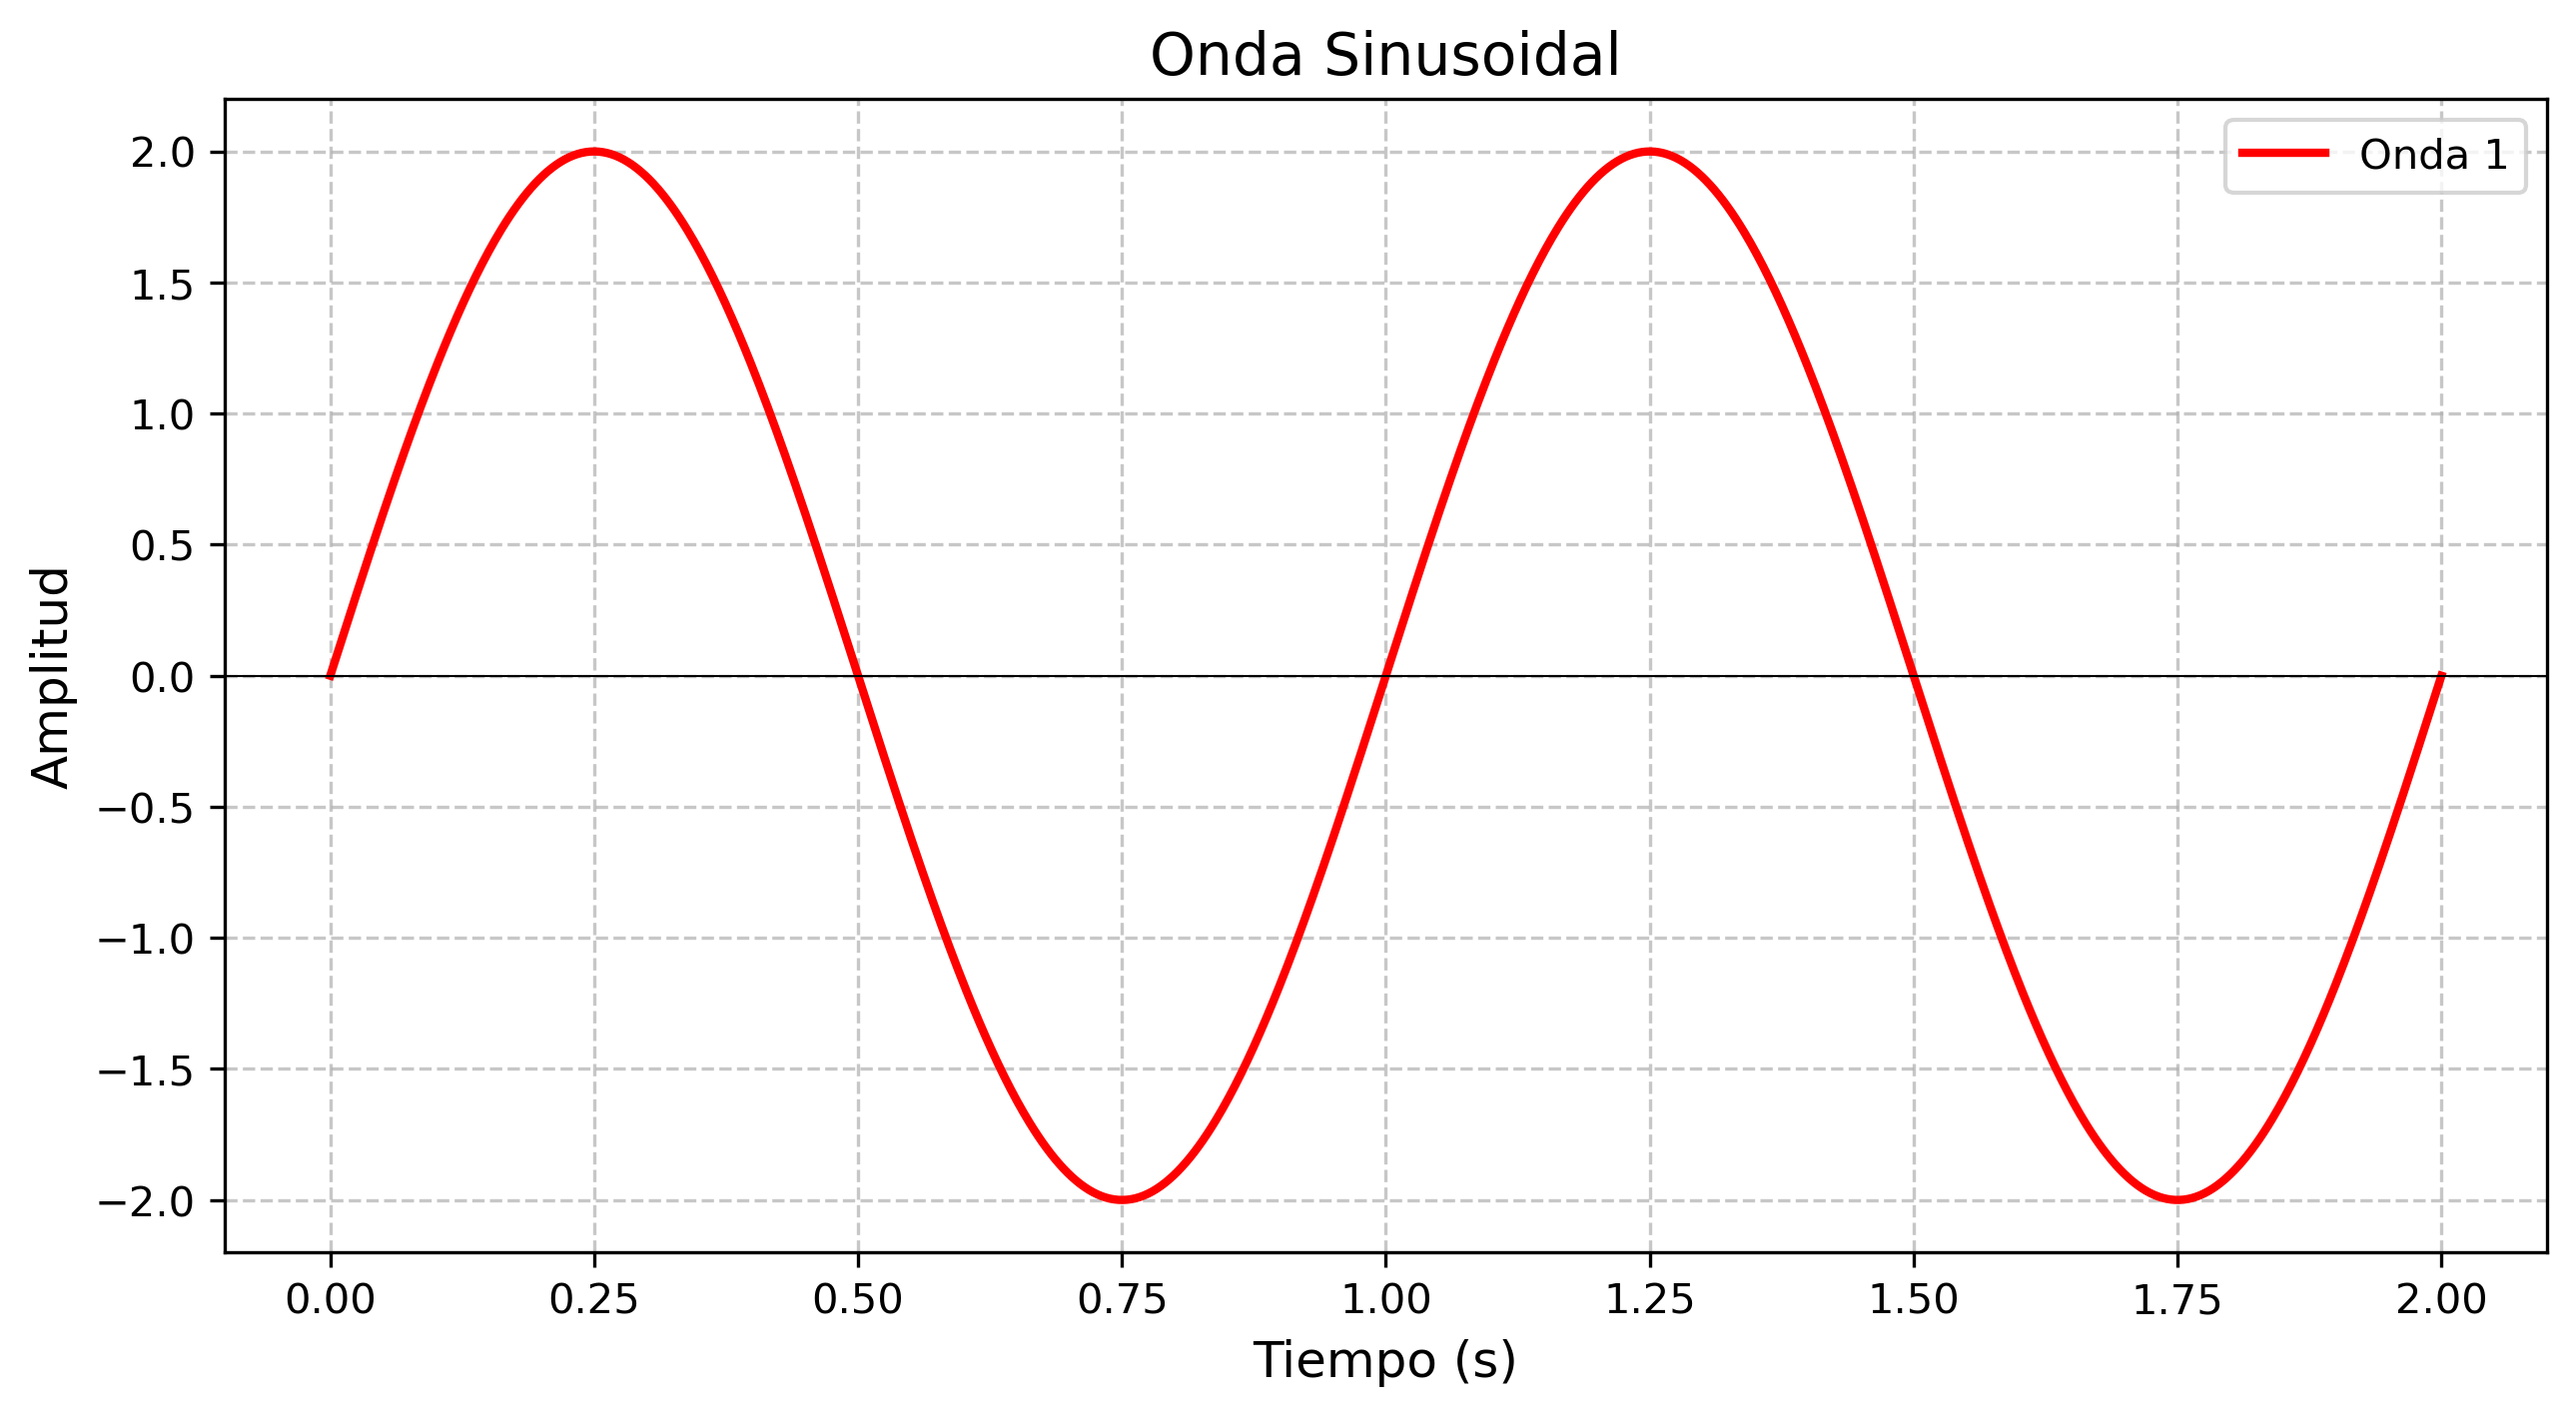
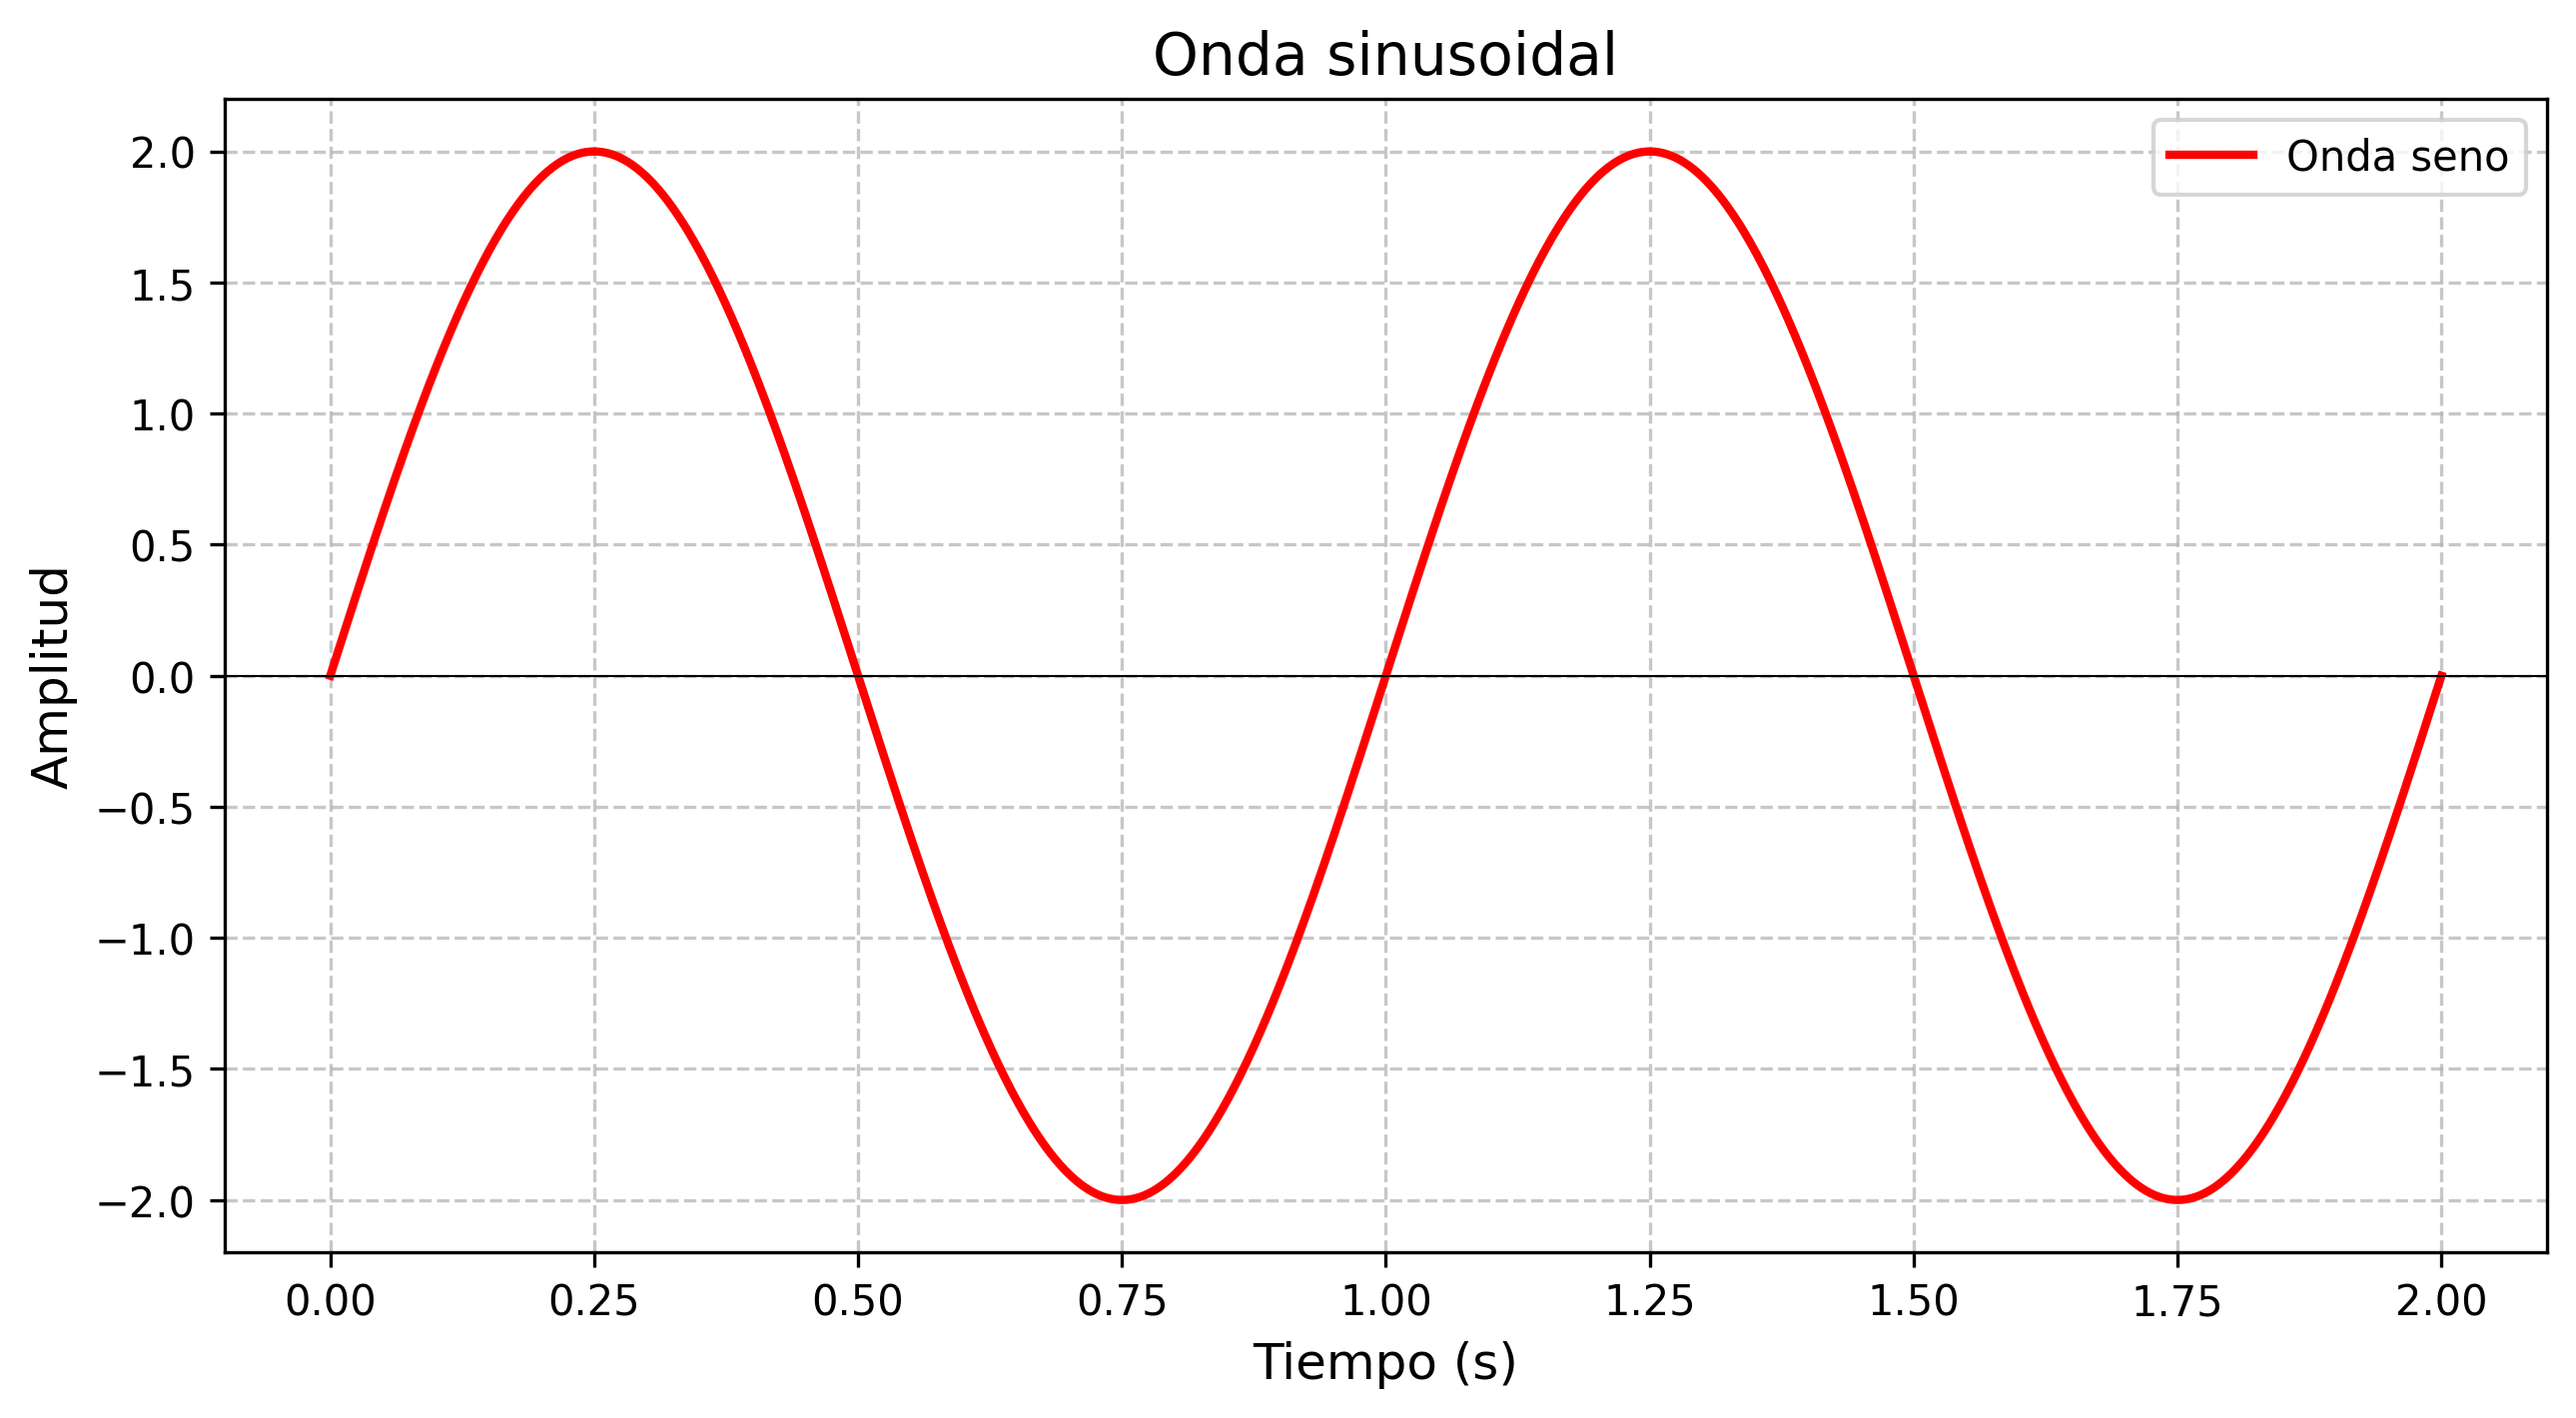
Erratas

Changed region(s): [[0.0931, 0.8378, 0.9926, 0.8999], [0.8375, 0.0621, 0.9926, 0.1551], [0.4343, 0.031, 0.6514, 0.0621]]

diff --git a/programas/GeneradorOndas.py b/programas/GeneradorOndas.py
@@ -12,13 +12,18 @@ class GeneradorOndas(object):
         self.x_maximo=x_maximo
         self.tiempo=np.linspace(x_minimo, x_maximo, num_muestras) 
         self.series=[]
-        self.titulo=[]
+        self.titulos=[]
         self.colores=["red", "green", "blue", "black", "cyan", "magenta"]
     
     def anadir_serie(self, amplitud, frecuencia, titulo):
         onda = amplitud * np.sin(2 * np.pi * frecuencia * self.tiempo)
         self.series.append(onda)
-        self.titulo.append(titulo)
+        self.titulos.append(titulo)
+
+    def anadir_serie_coseno(self, amplitud, frecuencia, titulo):
+        onda = amplitud * np.cos(2 * np.pi * frecuencia * self.tiempo)
+        self.series.append(onda)
+        self.titulos.append(titulo)
     
     def anadir_serie_np(self, np, titulo):
         self.series.append(np)
@@ -27,13 +32,13 @@ class GeneradorOndas(object):
     def guardar_grafico(self, nombre_archivo):
         # Configuración de la figura
         fig = plt.figure(figsize=(10, 5))
-        plt.title("Onda Sinusoidal", fontsize=14)
+        plt.title(self.titulo, fontsize=14)
         plt.xlabel("Tiempo (s)", fontsize=12)
         plt.ylabel("Amplitud", fontsize=12)
         plt.grid(True, linestyle='--', alpha=0.7)
 
        
-        for (serie, titulo, color) in zip(self.series, self.titulo, self.colores):
+        for (serie, titulo, color) in zip(self.series, self.titulos, self.colores):
             # Dibujar la onda
             plt.plot(self.tiempo, serie, color, linewidth=2, label=titulo)
         

diff --git a/programas/02-seno-y-coseno.py b/programas/02-seno-y-coseno.py
@@ -4,8 +4,9 @@ import numpy as np
 import matplotlib.pyplot as plt
 from GeneradorOndas import GeneradorOndas
 
-NOMBRE_ARCHIVO="02-sinusoidal.png"
+NOMBRE_ARCHIVO="02-seno-y-coseno.png"
 if __name__=="__main__":
-    g=GeneradorOndas("Onda sinusoidal", "Tiempo (s)", "Amplitud", 1000, 0,2)
+    g=GeneradorOndas("Comparativa de ondas", "Tiempo (s)", "Amplitud", 1000, 0,2)
     g.anadir_serie(2, 1, "Onda seno")
+    g.anadir_serie_coseno(2, 1, "Onda coseno")
     g.guardar_grafico(NOMBRE_ARCHIVO)

diff --git a/programas/02-cosinusoidal.py b/programas/02-cosinusoidal.py
@@ -4,8 +4,8 @@ import numpy as np
 import matplotlib.pyplot as plt
 from GeneradorOndas import GeneradorOndas
 
-NOMBRE_ARCHIVO="02-sinusoidal.png"
+NOMBRE_ARCHIVO="02-cosinusoidal.png"
 if __name__=="__main__":
-    g=GeneradorOndas("Onda sinusoidal", "Tiempo (s)", "Amplitud", 1000, 0,2)
-    g.anadir_serie(2, 1, "Onda seno")
+    g=GeneradorOndas("Onda cosinusoidal", "Tiempo (s)", "Amplitud", 1000, 0,2)
+    g.anadir_serie_coseno(2, 1, "Onda coseno")
     g.guardar_grafico(NOMBRE_ARCHIVO)

diff --git a/programas/03-distintas-amplitudes.py b/programas/03-distintas-amplitudes.py
@@ -1,0 +1,12 @@
+#!/usr/bin/python3
+
+import numpy as np
+import matplotlib.pyplot as plt
+from GeneradorOndas import GeneradorOndas
+
+NOMBRE_ARCHIVO="03-distintas-amplitudes.png"
+if __name__=="__main__":
+    g=GeneradorOndas("Distintas amplitudes", "Tiempo (s)", "Amplitud", 1000, 0,2)
+    g.anadir_serie(5, 1, "Onda seno")
+    g.anadir_serie_coseno(2, 1, "Onda coseno")
+    g.guardar_grafico(NOMBRE_ARCHIVO)

diff --git a/index.rst b/index.rst
@@ -39,3 +39,25 @@ Ondas
 ---------------
 
 
+Para enviar y recibir datos se envían ondas. Estas ondas suelen basarse en las funciones seno y coseno. En la figura siguiente puede verse una función seno (obsérvese que empieza siempre en 0):
+
+.. figure:: programas/02-sinusoidal.png
+   :alt: Gráfica de la función seno.
+
+   Gráfica de la función seno.
+
+De la misma manera, podemos ver una representación de la función coseno, que es muy parecida con la diferencia de que empieza siempre en el punto más alto.
+
+.. figure:: programas/02-cosinusoidal.png
+   :alt: Gráfica de la función coseno.
+
+   Gráfica de la función coseno.
+
+
+Podemos compararlas en el mismo gráfico y ver la diferencia:
+
+
+.. figure:: programas/02-seno-y-coseno.png
+   :alt: Comparativa entre funciones de onda
+
+   Comparativa entre funciones de onda
